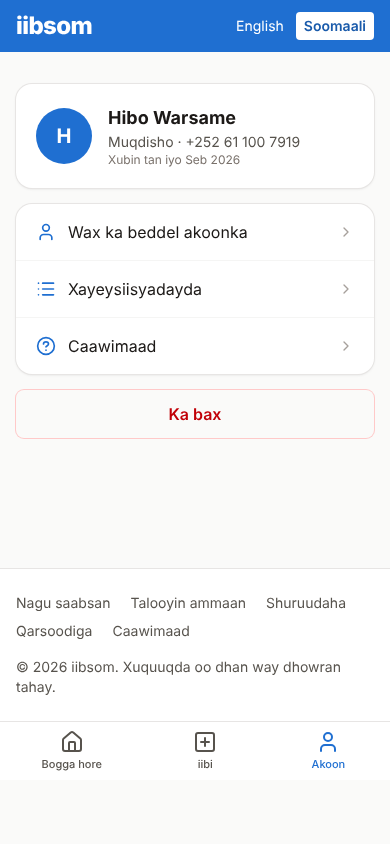
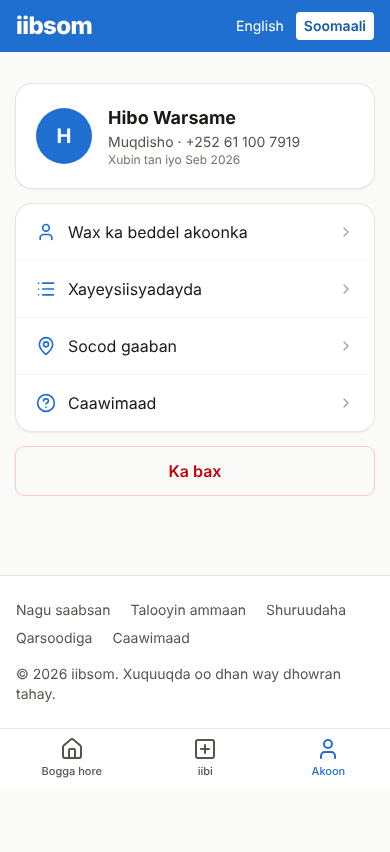
PR 29: Welcome tour (3 slides) after the first sign-in
- Find near you, sell for free, stay safe; English + Somali.
- Shown once after the first-time profile, and from Account → Quick tour.
- Native <dialog>: Esc/Skip close, focus stays inside; nothing stored.
- Switch site.welcome_tour (ON). Somali sheet + pictures include the tour.

Claude-Session: https://claude.ai/code/session_01AEkC9zhhbZWqmnDkrk4ZdY

diff --git a/resources/js/tour.js b/resources/js/tour.js
@@ -1,0 +1,26 @@
+// Welcome tour (3 slides) in a native <dialog>: Esc and "Skip" close it, focus stays inside.
+export function initTour() {
+    const dialog = document.querySelector('dialog[data-tour]');
+    if (!(dialog instanceof HTMLDialogElement) || typeof dialog.showModal !== 'function') return;
+
+    const slides = [...dialog.querySelectorAll('[data-tour-slide]')];
+    const back = dialog.querySelector('[data-tour-back]');
+    const next = dialog.querySelector('[data-tour-next]');
+    const done = dialog.querySelector('[data-tour-done]');
+    let current = 0;
+
+    const show = (index) => {
+        current = Math.max(0, Math.min(index, slides.length - 1));
+        slides.forEach((slide, i) => { slide.hidden = i !== current; });
+        back.hidden = current === 0;
+        next.hidden = current === slides.length - 1;
+        done.hidden = current !== slides.length - 1;
+        (done.hidden ? next : done).focus();
+    };
+
+    back.addEventListener('click', () => show(current - 1));
+    next.addEventListener('click', () => show(current + 1));
+
+    dialog.showModal();
+    show(0);
+}

diff --git a/resources/js/app.js b/resources/js/app.js
@@ -1,10 +1,12 @@
 import { initLanguageSwitch } from './language-switch';
 import { initForYou } from './for-you';
 import { initPwa } from './pwa';
+import { initTour } from './tour';
 
 initLanguageSwitch();
 initForYou();
 initPwa();
+initTour();
 
 // After a successful post, drop the drafts saved on this phone.
 if (document.querySelector('[data-post-done]')) {

diff --git a/tests/Feature/WelcomeTourTest.php b/tests/Feature/WelcomeTourTest.php
@@ -1,0 +1,82 @@
+<?php
+
+namespace Tests\Feature;
+
+use App\Models\City;
+use App\Models\User;
+use App\Support\Features\FeatureManager;
+use App\Support\Settings\SettingsManager;
+use Illuminate\Foundation\Testing\RefreshDatabase;
+use Illuminate\Testing\TestResponse;
+use Tests\TestCase;
+
+class WelcomeTourTest extends TestCase
+{
+    use RefreshDatabase;
+
+    protected function setUp(): void
+    {
+        parent::setUp();
+        $this->seed();
+        app(SettingsManager::class)->set('languages.enabled', ['en', 'so']);
+    }
+
+    private function finishWelcome(User $user): TestResponse
+    {
+        return $this->actingAs($user)->followingRedirects()->post('/welcome', [
+            'name' => 'Amina Ali',
+            'city_id' => City::where('slug', 'mogadishu')->value('id'),
+            'phone' => '615123456',
+            'terms' => '1',
+        ]);
+    }
+
+    public function test_tour_shows_once_after_the_first_sign_in(): void
+    {
+        $user = User::factory()->create();
+
+        $this->finishWelcome($user)->assertOk()
+            ->assertSee('<dialog data-tour', false)
+            ->assertSeeInOrder(['Find it near you', 'Sell for free', 'Stay safe'])
+            ->assertSee('Step 1 of 3');
+
+        // Only once: the next page has no tour.
+        $this->actingAs($user)->get('/')->assertOk()->assertDontSee('data-tour', false);
+    }
+
+    public function test_saving_the_profile_later_does_not_show_it(): void
+    {
+        $user = User::factory()->completed()->create();
+
+        $this->actingAs($user)->followingRedirects()->post('/account/profile', [
+            'name' => 'Amina Ali',
+            'city_id' => City::where('slug', 'mogadishu')->value('id'),
+            'phone' => '615123456',
+        ])->assertOk()->assertDontSee('data-tour', false);
+    }
+
+    public function test_account_page_opens_the_tour_again(): void
+    {
+        $user = User::factory()->completed()->create();
+
+        $this->actingAs($user)->get('/account')->assertOk()->assertSee('href="'.url('/account?tour=1').'"', false)->assertDontSee('<dialog', false);
+        $this->actingAs($user)->get('/account?tour=1')->assertOk()->assertSee('<dialog data-tour', false);
+        $this->actingAs($user)->get('/so/account?tour=1')->assertOk()->assertSee('Ka hel meel kuu dhow')->assertSee('Tallaabada 1 ee 3');
+    }
+
+    public function test_guests_never_get_the_tour(): void
+    {
+        $this->get('/?tour=1')->assertOk()->assertDontSee('data-tour', false);
+    }
+
+    public function test_switch_off_hides_the_tour_and_the_link(): void
+    {
+        app(FeatureManager::class)->set('site.welcome_tour', false);
+        $user = User::factory()->create();
+
+        $this->finishWelcome($user)->assertOk()->assertDontSee('data-tour', false);
+        $this->actingAs($user)->get('/account?tour=1')->assertOk()
+            ->assertDontSee('data-tour', false)
+            ->assertDontSee('Quick tour');
+    }
+}

diff --git a/resources/views/partials/welcome-tour.blade.php b/resources/views/partials/welcome-tour.blade.php
@@ -1,0 +1,24 @@
+{{-- 3-slide welcome tour: after the first sign-in, or from Account → Quick tour. Opened by resources/js/tour.js. --}}
+@php($slides = [
+    ['search', __('site.tour.find_title'), __('site.tour.find_text')],
+    ['square-plus', __('site.tour.sell_title'), __('site.tour.sell_text')],
+    ['shield-check', __('site.tour.safe_title'), __('site.tour.safe_text')],
+])
+<dialog data-tour aria-label="{{ __('site.tour.label') }}" class="m-auto w-[calc(100%-2rem)] max-w-sm rounded-2xl bg-white p-0 shadow-xl backdrop:bg-stone-900/60">
+    <form method="dialog" class="p-6 text-center">
+        @foreach ($slides as $i => [$icon, $title, $text])
+            <section data-tour-slide @if ($i > 0) hidden @endif>
+                <span class="mx-auto flex size-16 items-center justify-center rounded-full bg-brand-50">{{ icon($icon, 'size-8 text-brand-700') }}</span>
+                <h2 class="mt-4 text-xl font-bold">{{ $title }}</h2>
+                <p class="mt-2 text-stone-600">{{ $text }}</p>
+                <p class="mt-4 text-xs text-stone-500">{{ __('site.tour.step', ['n' => $i + 1, 'total' => count($slides)]) }}</p>
+            </section>
+        @endforeach
+        <div class="mt-5 flex items-center justify-between gap-2">
+            <button type="submit" value="skip" data-tour-skip class="rounded-lg px-3 py-2 text-sm font-semibold text-stone-600 hover:bg-stone-100">{{ __('site.tour.skip') }}</button>
+            <button type="button" data-tour-back hidden class="rounded-lg px-3 py-2 text-sm font-semibold text-brand-700 hover:bg-brand-50">{{ __('site.tour.back') }}</button>
+            <button type="button" data-tour-next class="btn-sell px-5">{{ __('site.tour.next') }}</button>
+            <button type="submit" value="done" data-tour-done hidden class="btn-sell px-5">{{ __('site.tour.done') }}</button>
+        </div>
+    </form>
+</dialog>

diff --git a/config/features.php b/config/features.php
@@ -51,6 +51,7 @@ return [
     'recommendations' => ['group' => 'Site', 'default' => true, 'label' => 'Recommended for you', 'description' => 'Home page shows ads like the ones a visitor looked at, and recently viewed ads. History stays in the visitor\'s browser only.'],
     'help.centre' => ['group' => 'Site', 'default' => true, 'label' => 'Help page', 'description' => 'Short how-to articles for customers at /help (post an ad, photos, safety, account), in English and Somali. Linked in the footer and the account page.'],
     'help.admin_guide' => ['group' => 'Site', 'default' => true, 'label' => 'Admin guide', 'description' => 'The "?" button next to each admin page title, the Guide page and its PDF. OFF hides them (for staff who know the admin well).'],
+    'site.welcome_tour' => ['group' => 'Site', 'default' => true, 'label' => 'Welcome tour', 'description' => '3 short slides (find, sell, stay safe) shown once after a customer\'s first sign-in, and from Account → Quick tour.'],
     'site.demo_data' => ['group' => 'Site', 'default' => false, 'label' => 'Show demo data', 'description' => 'Show the demo ads. Never ON in production.'],
 
     // Speed and API

diff --git a/tests/Feature/TranslationExportTest.php b/tests/Feature/TranslationExportTest.php
@@ -22,6 +22,7 @@ class TranslationExportTest extends TestCase
         File::put($this->screens.'/ads-show.png', 'x');
         File::put($this->screens.'/browse-index.png', 'x');
         File::put($this->screens.'/pages-safety.png', 'x');
+        File::put($this->screens.'/tour.png', 'x');
     }
 
     protected function tearDown(): void
@@ -75,6 +76,8 @@ class TranslationExportTest extends TestCase
         // Header texts show on every page, so they point to the home picture.
         $this->assertStringContainsString('resources/views/partials/header.blade.php', $rows['site.nav.sign_in'][4]);
         $this->assertSame('home.png', $rows['site.nav.sign_in'][5]);
+        // The tour is a pop-up with its own picture (not the home page).
+        $this->assertSame('tour.png', $rows['site.tour.sell_title'][5]);
         // The ad card sits inside the list pages.
         $this->assertContains('browse-index.png', explode(' | ', $rows['ads.page.negotiable'][5]));
     }

diff --git a/lang/so/site.php b/lang/so/site.php
@@ -73,4 +73,19 @@ return [
         'still_need' => 'Weli caawimaad ma u baahan tahay?',
         'write_to' => 'Noogu soo qor:',
     ],
+
+    'tour' => [
+        'label' => 'Socod gaaban',
+        'step' => 'Tallaabada :n ee :total',
+        'next' => 'Xiga',
+        'back' => 'Dib',
+        'done' => 'Bilow',
+        'skip' => 'Ka gudub',
+        'find_title' => 'Ka hel meel kuu dhow',
+        'find_text' => 'Raadi baabuur, taleefanno, guryo iyo wax kale. Dooro magaaladaada si aad u aragto xayeysiisyada kuu dhow.',
+        'sell_title' => 'Ku iibi bilaash',
+        'sell_text' => 'Riix iibi, ku dar sawirro, qiime iyo magaaladaada. Kooxdayadu waxay hubisaa xayeysiis kasta, kadibna iibsadayaashu way ku soo wacaan ama kugula xiriiraan WhatsApp.',
+        'safe_title' => 'Ammaan ahaw',
+        'safe_text' => 'Ku kulma meel mashquul ah oo arag alaabta ka hor intaadan lacag bixin. Weligaa lacag hore ha dirin.',
+    ],
 ];

diff --git a/lang/en/site.php b/lang/en/site.php
@@ -71,4 +71,19 @@ return [
         'still_need' => 'Still need help?',
         'write_to' => 'Write to us:',
     ],
+
+    'tour' => [
+        'label' => 'Quick tour',
+        'step' => 'Step :n of :total',
+        'next' => 'Next',
+        'back' => 'Back',
+        'done' => 'Start',
+        'skip' => 'Skip',
+        'find_title' => 'Find it near you',
+        'find_text' => 'Search cars, phones, houses and more. Pick your city to see ads near you.',
+        'sell_title' => 'Sell for free',
+        'sell_text' => 'Tap Sell, add photos, a price and your city. Our team checks every ad, then buyers call or WhatsApp you.',
+        'safe_title' => 'Stay safe',
+        'safe_text' => 'Meet in a busy place and see the item before you pay. Never send money first.',
+    ],
 ];

diff --git a/resources/views/account/index.blade.php b/resources/views/account/index.blade.php
@@ -28,6 +28,13 @@
                     </a>
                 </li>
             @endfeature
+            @feature('site.welcome_tour')
+                <li>
+                    <a href="{{ lroute('account', ['tour' => 1]) }}" class="flex items-center gap-3 px-5 py-4 hover:bg-stone-50">
+                        {{ icon('map-pin', 'size-5 text-brand-700') }}<span class="flex-1">{{ __('account.account.tour') }}</span>{{ icon('chevron-right', 'size-4 text-stone-400') }}
+                    </a>
+                </li>
+            @endfeature
             @feature('help.centre')
                 <li>
                     <a href="{{ lroute('help') }}" class="flex items-center gap-3 px-5 py-4 hover:bg-stone-50">

diff --git a/app/Http/Controllers/Account/ProfileController.php b/app/Http/Controllers/Account/ProfileController.php
@@ -72,7 +72,8 @@ class ProfileController extends Controller
         $user->save();
 
         if ($welcome) {
-            return redirect()->intended(lroute('home'))->with('status', __('account.welcome.done'));
+            return redirect()->intended(lroute('home'))->with('status', __('account.welcome.done'))
+                ->with('show_tour', feature('site.welcome_tour'));
         }
 
         return redirect(lroute('account'))->with('status', __('account.profile.saved'));

diff --git a/app/Console/Commands/ExportTranslations.php b/app/Console/Commands/ExportTranslations.php
@@ -42,6 +42,7 @@ class ExportTranslations extends Command
         'pages/show' => 'pages-safety.png',
         'help/show' => 'help-post-an-ad.png',
         'help/_contact' => 'help-index.png',
+        'partials/welcome-tour' => 'tour.png',
     ];
 
     private const NOT_FOUND = '(not found: the key may be built from parts in the code)';

diff --git a/lang/so/account.php b/lang/so/account.php
@@ -33,6 +33,7 @@ return [
         'title' => 'Akoonkayga',
         'edit_profile' => 'Wax ka beddel akoonka',
         'help' => 'Caawimaad',
+        'tour' => 'Socod gaaban',
         'my_ads' => 'Xayeysiisyadayda',
         'member_since' => 'Xubin tan iyo :date',
         'logout' => 'Ka bax',
